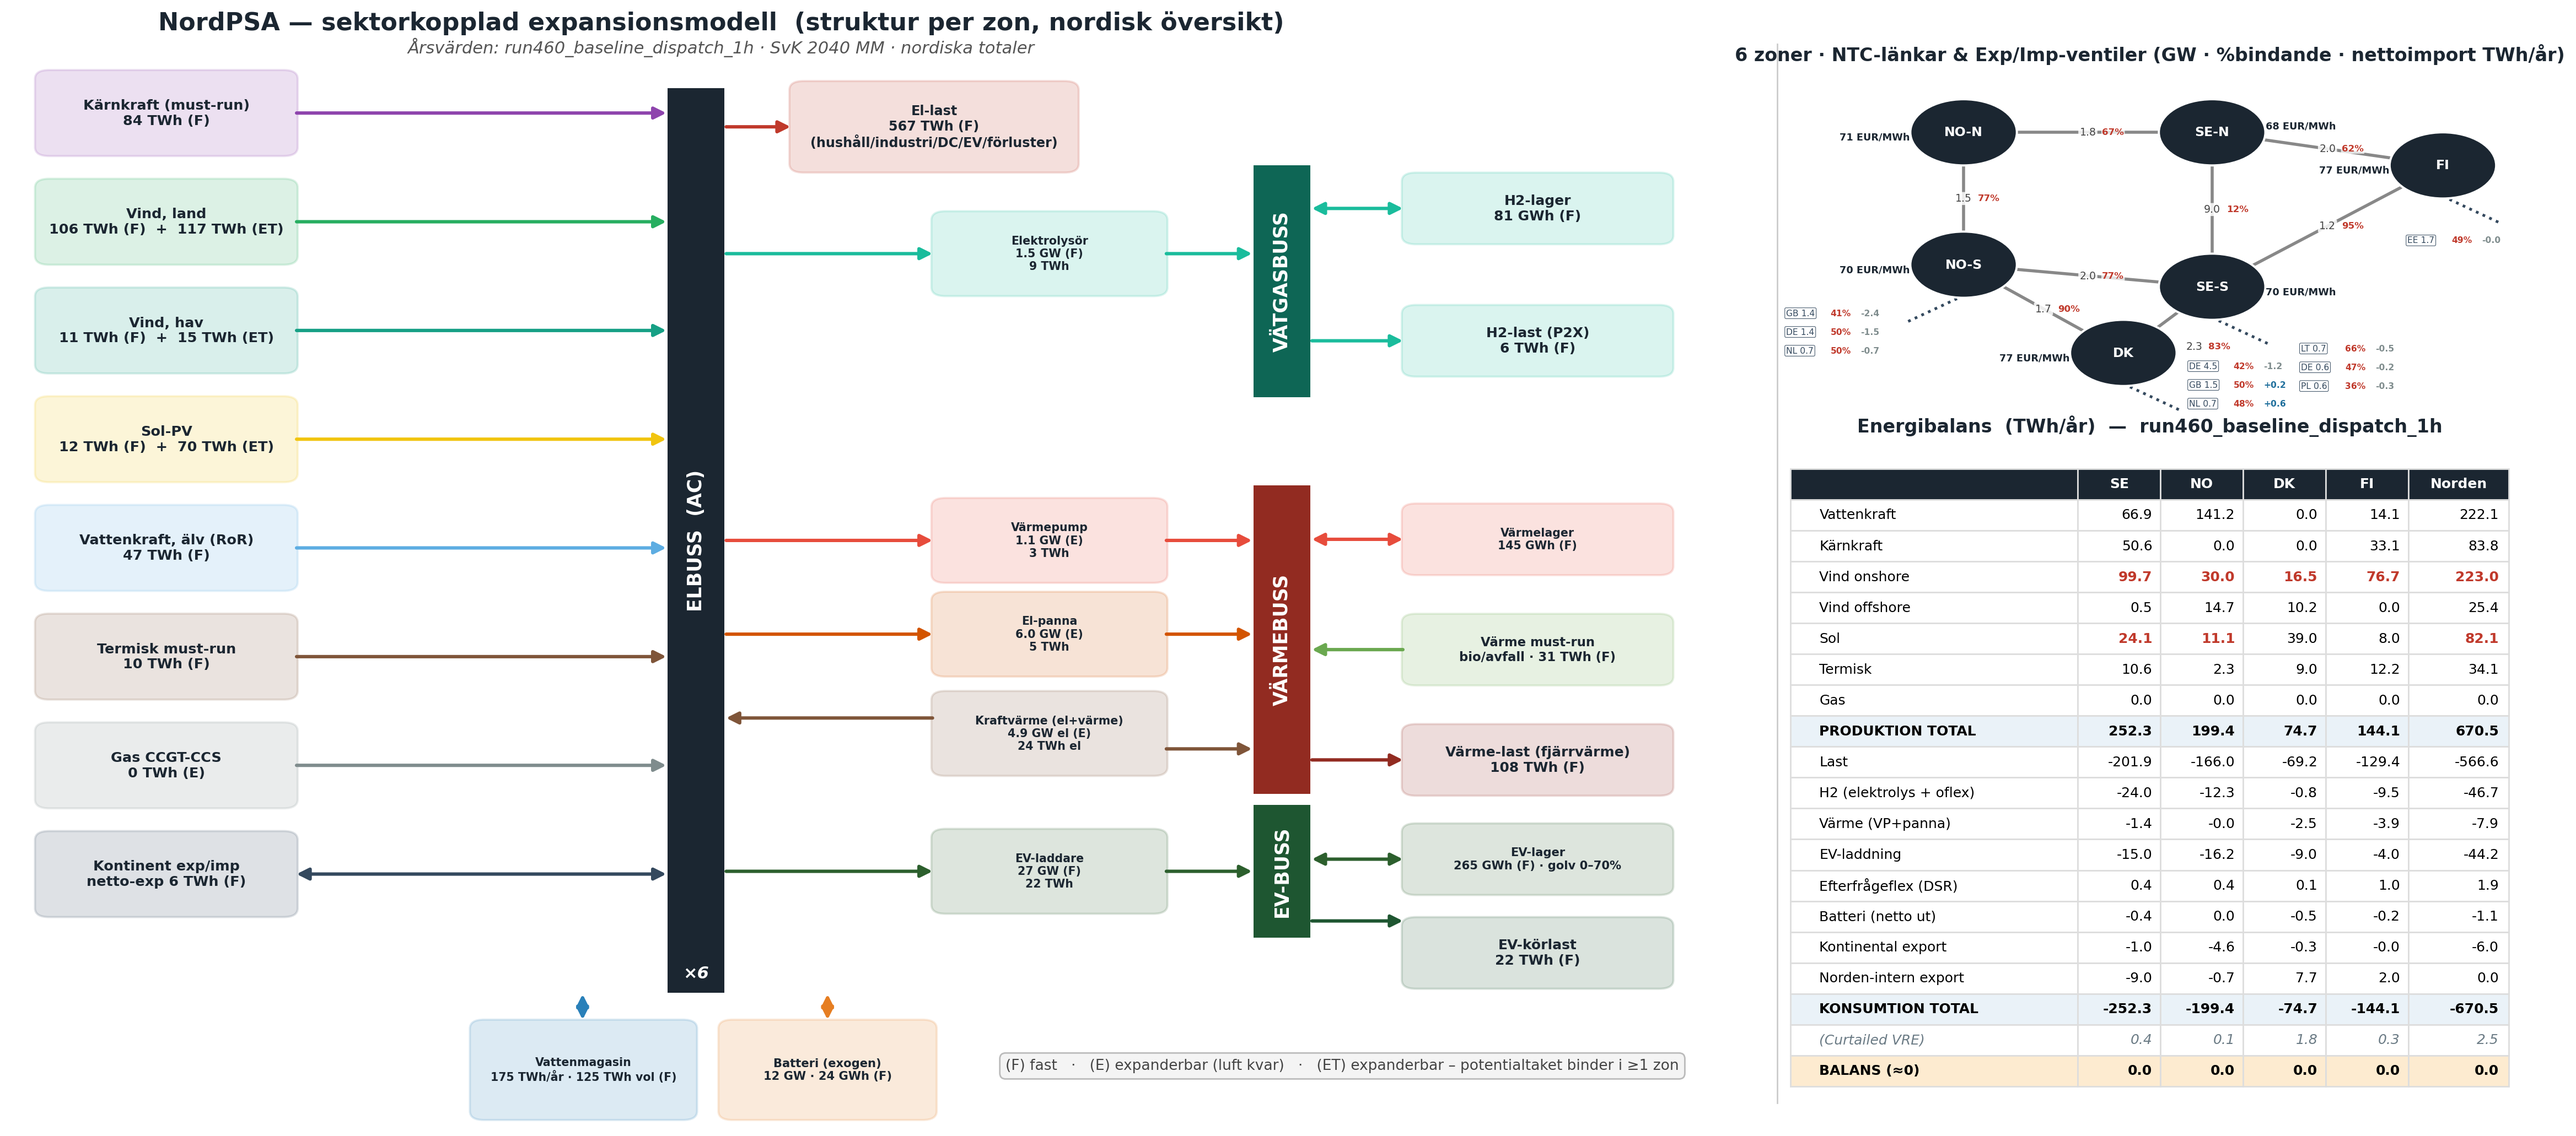
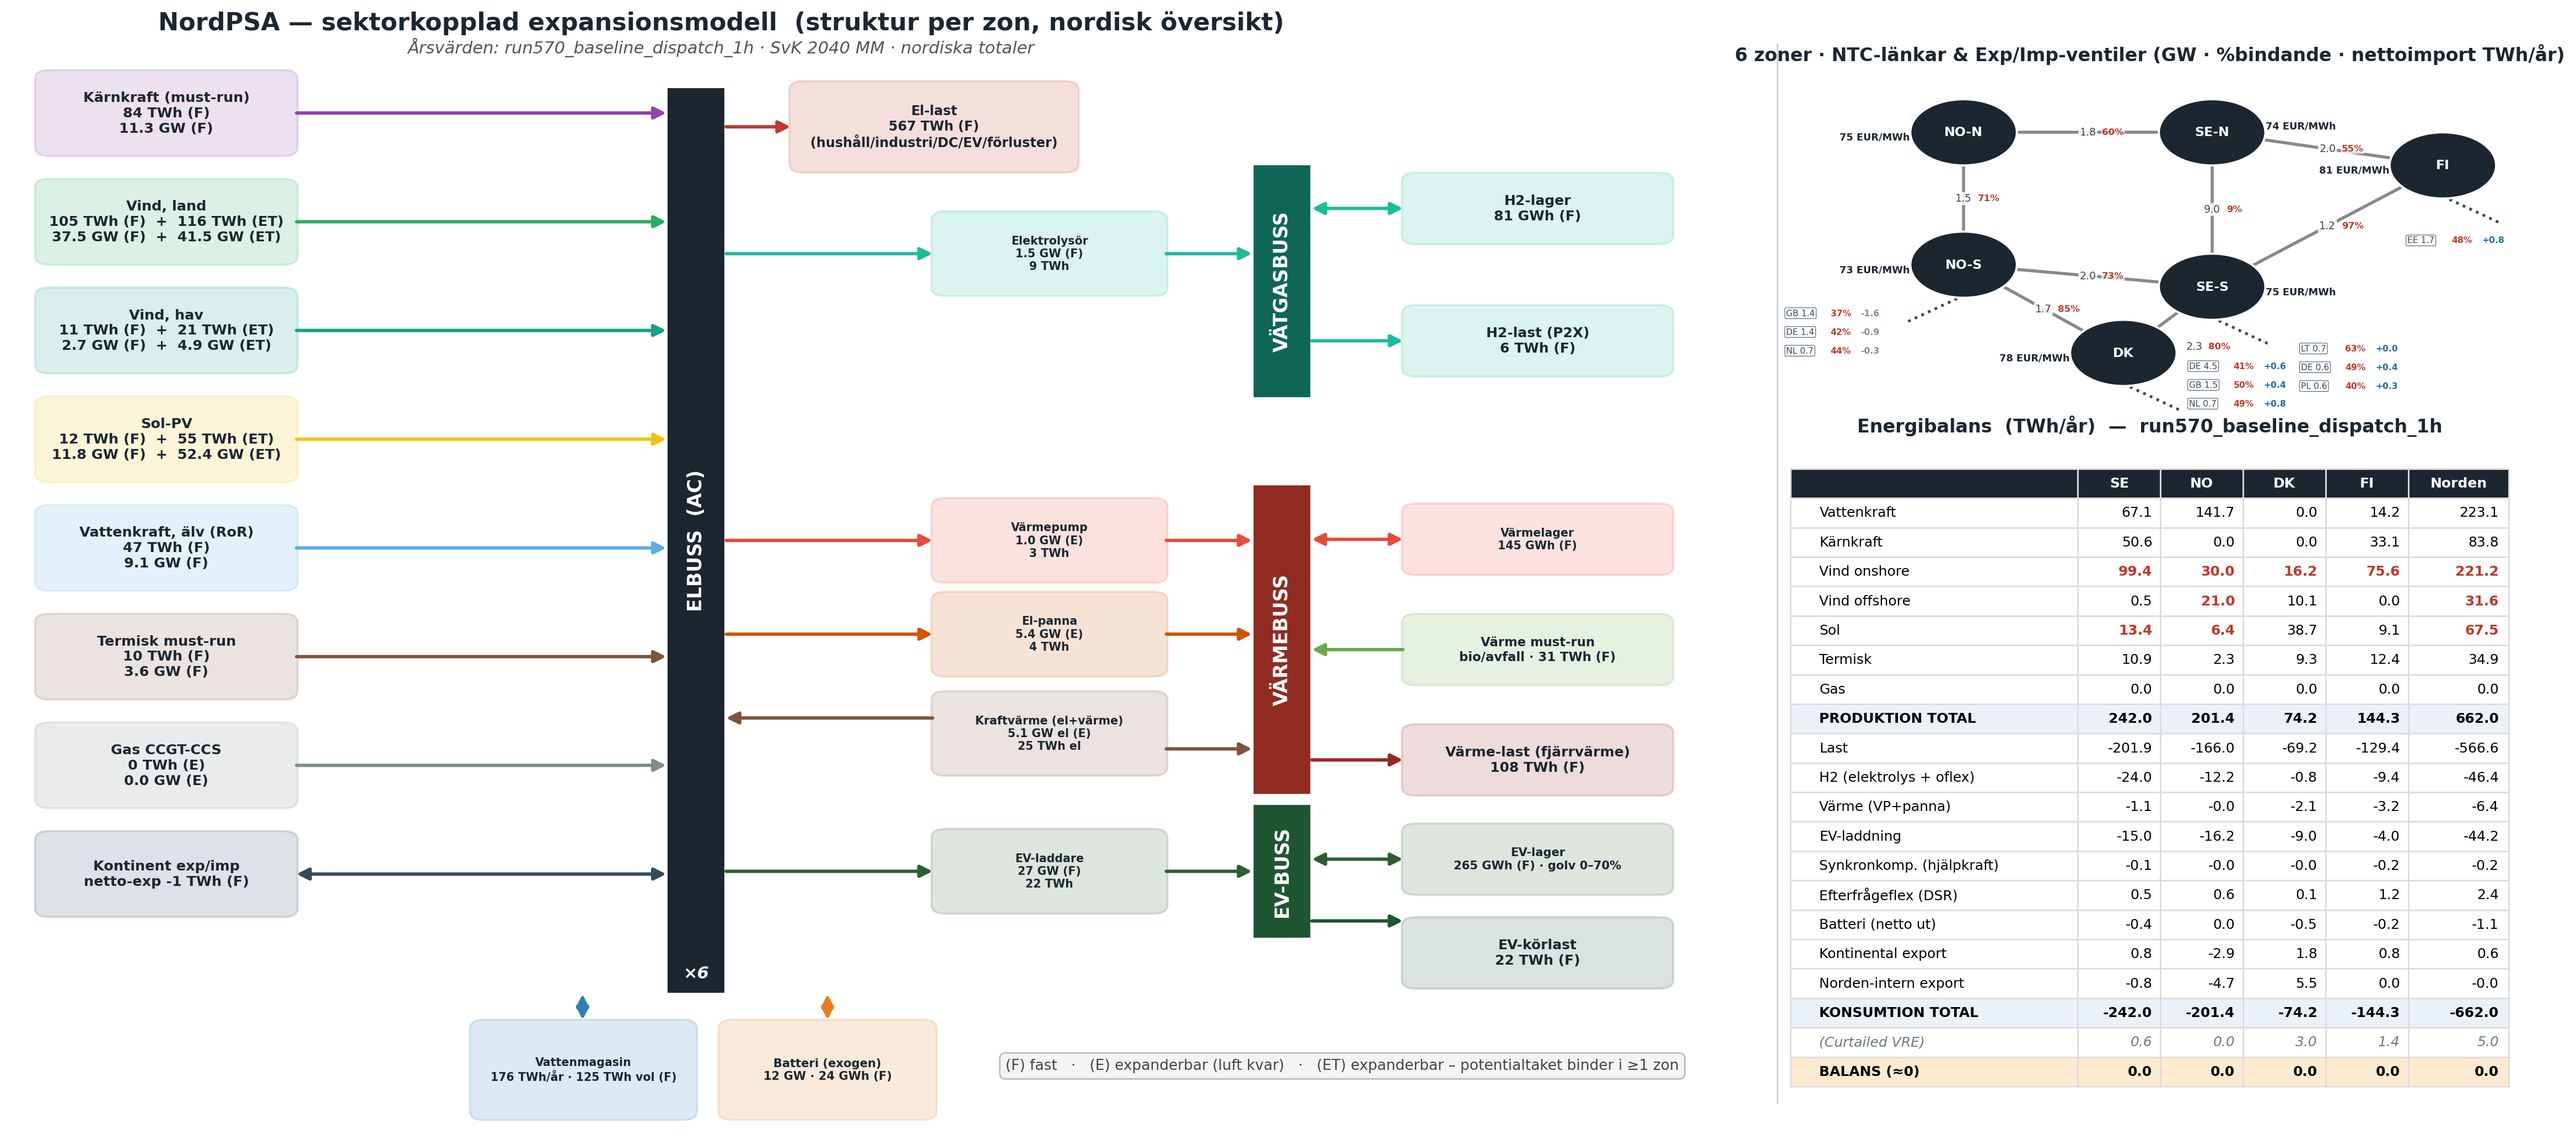
README: overview figure from the batch 56 baseline dispatch (run570)

diff --git a/README.md b/README.md
@@ -10,7 +10,7 @@ using 2023–2025 weather, inflow and load as the three reference years.
 ![Model overview](docs/nordpsa_overview.png)
 
 *Model structure per zone, the six-zone grid, and the annual energy balance from the
-baseline 2040 dispatch run. Labels are in Swedish.*
+baseline 2040 dispatch run (run570, tag `baseline-2026-10`). Labels are in Swedish.*
 
 ## What it models
 
